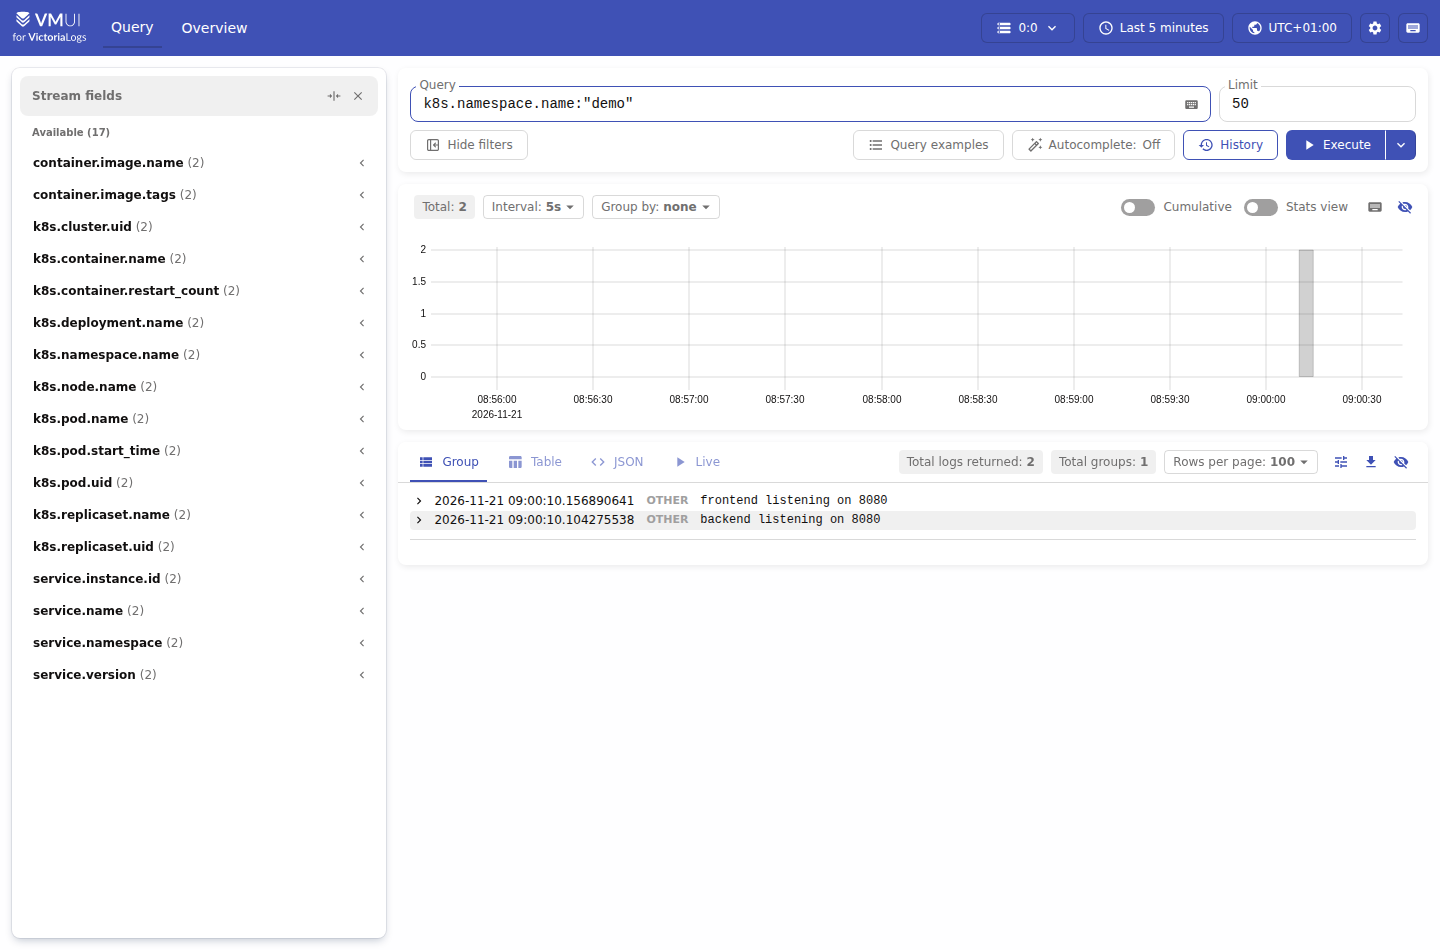
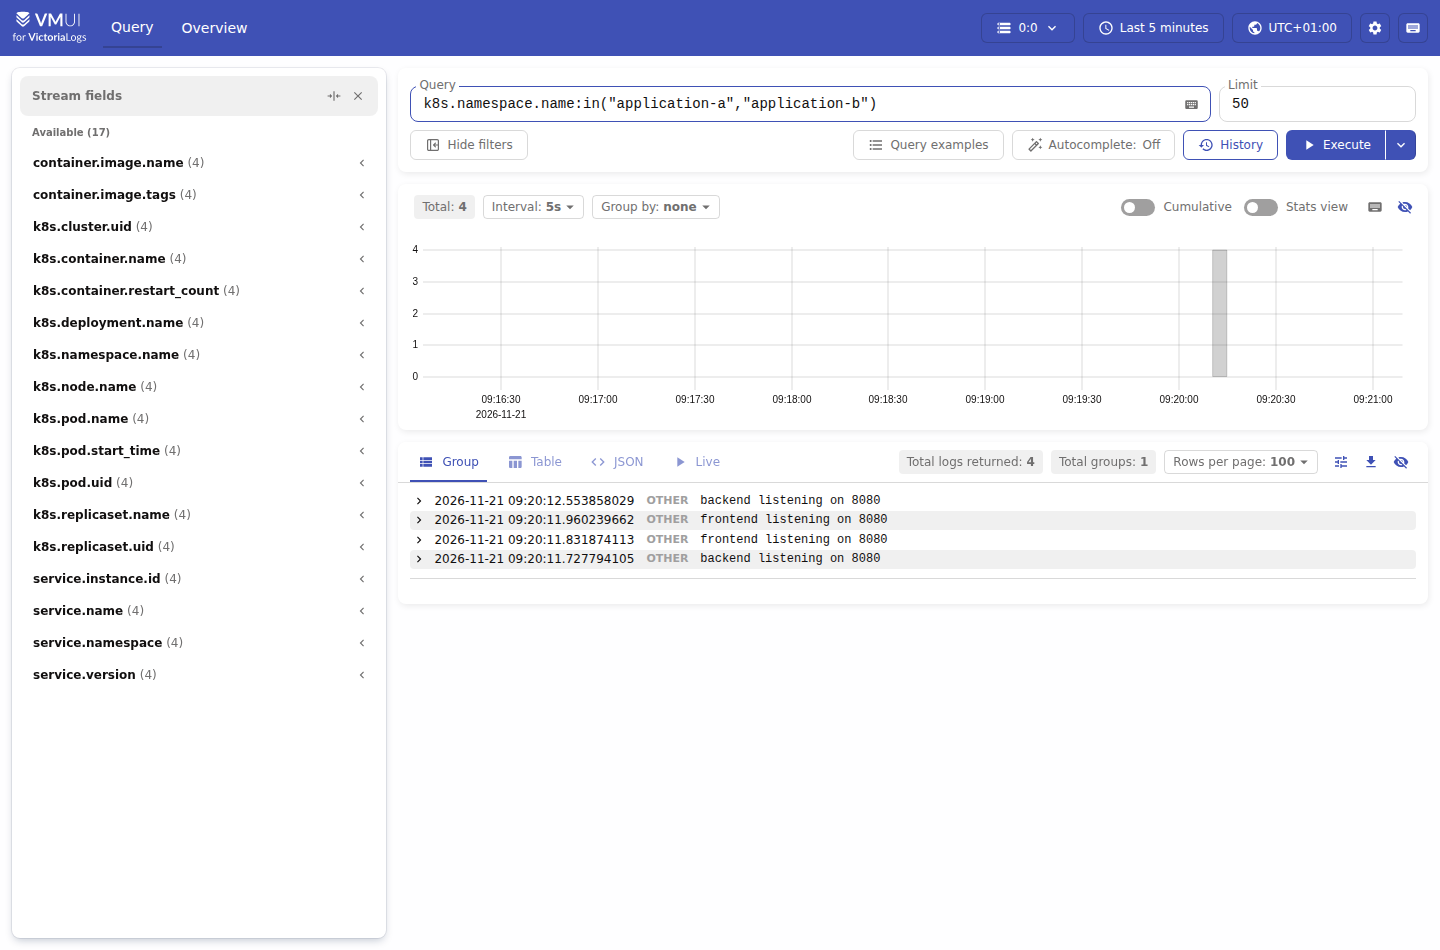
TP3 : sorties et capture mises a jour apres rejeu avec deux applications
Le TP a ete rejoue de bout en bout sur clt-0 avec application-a et
application-b, puis nettoye.

- capture vmui refaite avec la requete
  k8s.namespace.name:in("application-a","application-b") : quatre
  lignes, deux applications et deux conteneurs ;
- decompte par namespace et par conteneur remplace par la sortie
  reelle, avec la fonction in() et l'alternative par prefixe ;
- partie 5 : la liste des services montre que frontend et backend sont
  communs aux deux applications, et la requete sur les attributs k8s
  renvoie bien application-a et application-b ;
- attributs k8s releves sur une trace reelle (container, deployment,
  namespace, node) ;
- nuance ajoutee sur les metriques : pas de backend de metriques dans
  ce TP, le pipeline reste sur debug, et le TP1 montre le signal de
  bout en bout.

diff --git a/Lab_TP03_Kubernetes.md b/Lab_TP03_Kubernetes.md
@@ -696,7 +696,7 @@ Trois champs méritent l'attention : `_msg` (le message), `_time`, et `_stream`,
 
 Ouvrez maintenant l'interface dans le navigateur, sur `http://vlogs.$INGRESS_HOST:8080`. Elle s'appelle `vmui` et sert à la fois à écrire les requêtes et à lire les résultats, avec trois modes d'affichage (`Group`, `Table`, `JSON`).
 
-![Interface vmui de VictoriaLogs, requête sur le namespace application-a et champs Kubernetes disponibles](img/tp03-vlogs-logsql.png)
+![Interface vmui de VictoriaLogs, requête sur les deux namespaces d'application et champs Kubernetes disponibles](img/tp03-vlogs-logsql.png)
 
 La colonne de gauche liste les champs disponibles, avec le nombre de valeurs distinctes : ce sont les attributs de ressource posés par l'**agent**, ce qui permet de construire les requêtes sans les deviner.
 
@@ -708,18 +708,22 @@ Tous les logs de l'application A :
 k8s.namespace.name:"application-a"
 ```
 
-Pour vérifier que le namespace distingue bien les deux applications, demandez le décompte par namespace :
+Pour vérifier que le namespace distingue bien les deux applications, restreignez la requête aux deux namespaces d'application, puis demandez le décompte par namespace et par conteneur :
 
 ```text
-k8s.namespace.name:* | stats by (k8s.namespace.name) count() as lignes | sort by (lignes desc)
+k8s.namespace.name:in("application-a","application-b") | stats by (k8s.namespace.name, k8s.container.name) count() as lignes
 ```
 
-```text
-application-a : 24
-application-b : 24
+```json
+{"k8s.namespace.name":"application-a","k8s.container.name":"frontend","lignes":"1"}
+{"k8s.namespace.name":"application-a","k8s.container.name":"backend","lignes":"1"}
+{"k8s.namespace.name":"application-b","k8s.container.name":"frontend","lignes":"1"}
+{"k8s.namespace.name":"application-b","k8s.container.name":"backend","lignes":"1"}
 ```
 
-Les deux applications produisent le même volume de logs, et le seul champ qui les sépare est `k8s.namespace.name`. C'est l'attribut que l'**agent** a ajouté, et sans lui les deux jeux de lignes seraient indiscernables.
+Quatre lignes, une par couple application et conteneur : les deux applications produisent les mêmes messages, et le seul champ qui les sépare est `k8s.namespace.name`. C'est l'attribut que l'**agent** a ajouté, et sans lui les deux jeux de lignes seraient indiscernables.
+
+**NB** : la fonction `in(...)` évite d'écrire deux requêtes ; `k8s.namespace.name:application-*` fonctionne aussi, avec un filtre par préfixe.
 
 Uniquement les logs du conteneur `frontend` de l'application A :
 
@@ -924,9 +928,7 @@ C'est le résultat à retenir de ce TP : un même nom de service dans deux envir
 
 Une même trace traverse donc les deux services. Ouvrez-la dans l'interface de Jaeger (`http://jaeger.$INGRESS_HOST:8080`) : vous voyez le span serveur du frontend, le span client de son appel au backend, puis le span serveur du backend. Le lien entre les deux services repose sur le propagator `tracecontext`.
 
-Regardez enfin les attributs de ressource de cette trace : `k8s.pod.name`, `k8s.namespace.name` et `k8s.node.name` y figurent. Ils viennent de deux sources complémentaires : l'**agent** les ajoute par le processor `k8s_attributes` pour les traces qu'il reçoit, et l'**operator** les injecte aussi dans `OTEL_RESOURCE_ATTRIBUTES` au moment de la création du pod, avec le préfixe `k8s.container.name` et `k8s.deployment.name`.
-
-Vérifiez que le namespace apparaît aussi sur les métriques, troisième signal. L'**operator** a injecté `OTEL_METRICS_EXPORTER=otlp`, et la même ressource s'applique aux métriques de runtime envoyées par le SDK :
+Regardez enfin les attributs de ressource de cette trace, tous préfixés par `k8s.` :
 
 ```bash
 jaeger "/api/v3/traces?query.service_name=frontend&query.startTimeMin=$(date -u -d '10 minutes ago' +%Y-%m-%dT%H:%M:%SZ)&query.startTimeMax=$(date -u -d '+1 minute' +%Y-%m-%dT%H:%M:%SZ)" \
@@ -934,14 +936,20 @@ jaeger "/api/v3/traces?query.service_name=frontend&query.startTimeMin=$(date -u 
 ```
 
 ```text
+k8s.container.name=backend
 k8s.container.name=frontend
+k8s.deployment.name=backend
 k8s.deployment.name=frontend
 k8s.namespace.name=application-a
+k8s.namespace.name=application-b
 k8s.node.name=cluster-worker
-k8s.pod.name=frontend-...
 ```
 
-Les trois signaux portent donc le même attribut : `k8s.namespace.name` vient du processor pour les logs, de l'**agent** pour les traces, et de la ressource injectée par l'**operator** pour les métriques. C'est cette cohérence qui permet de corréler les trois signaux d'une même application.
+Ces attributs viennent de deux sources complémentaires : l'**agent** les ajoute par le processor `k8s_attributes` pour les données qu'il reçoit, et l'**operator** les injecte dans `OTEL_RESOURCE_ATTRIBUTES` au moment de la création du pod, avec `k8s.container.name` et `k8s.deployment.name`. Le namespace, lui, apparaît dans les deux chemins, ce qui explique qu'il soit présent même sur un pod instrumenté avant l'**agent**.
+
+Le troisième signal, les métriques, n'est pas exporté dans ce TP : il n'y a pas de backend de métriques dans le cluster, et le pipeline `metrics` du chart reste sur l'exporter `debug`. L'attribut y serait identique, puisque les métriques du SDK portent la même ressource que les traces. C'est le TP1, avec Prometheus, qui montre ce signal de bout en bout.
+
+Le résultat à retenir est donc celui-ci : `k8s.namespace.name` accompagne les logs et les traces, et il est posé de la même façon pour toutes les applications du cluster. C'est ce qui rend possible la question « cette ligne appartient-elle à l'application A ou à l'application B ? », alors que les deux portent les mêmes noms de service.
 
 **NB** : si les pods redémarrent mais qu'aucune trace n'apparaît, vérifiez que l'init container est présent (`kubectl -n application-a describe pod -l app=frontend`). S'il manque, l'annotation n'est pas sur le modèle de pod ou l'`Instrumentation` a été créée après les pods : dans ce second cas, redémarrez-les avec `kubectl -n application-a rollout restart deployment/frontend`.
 
